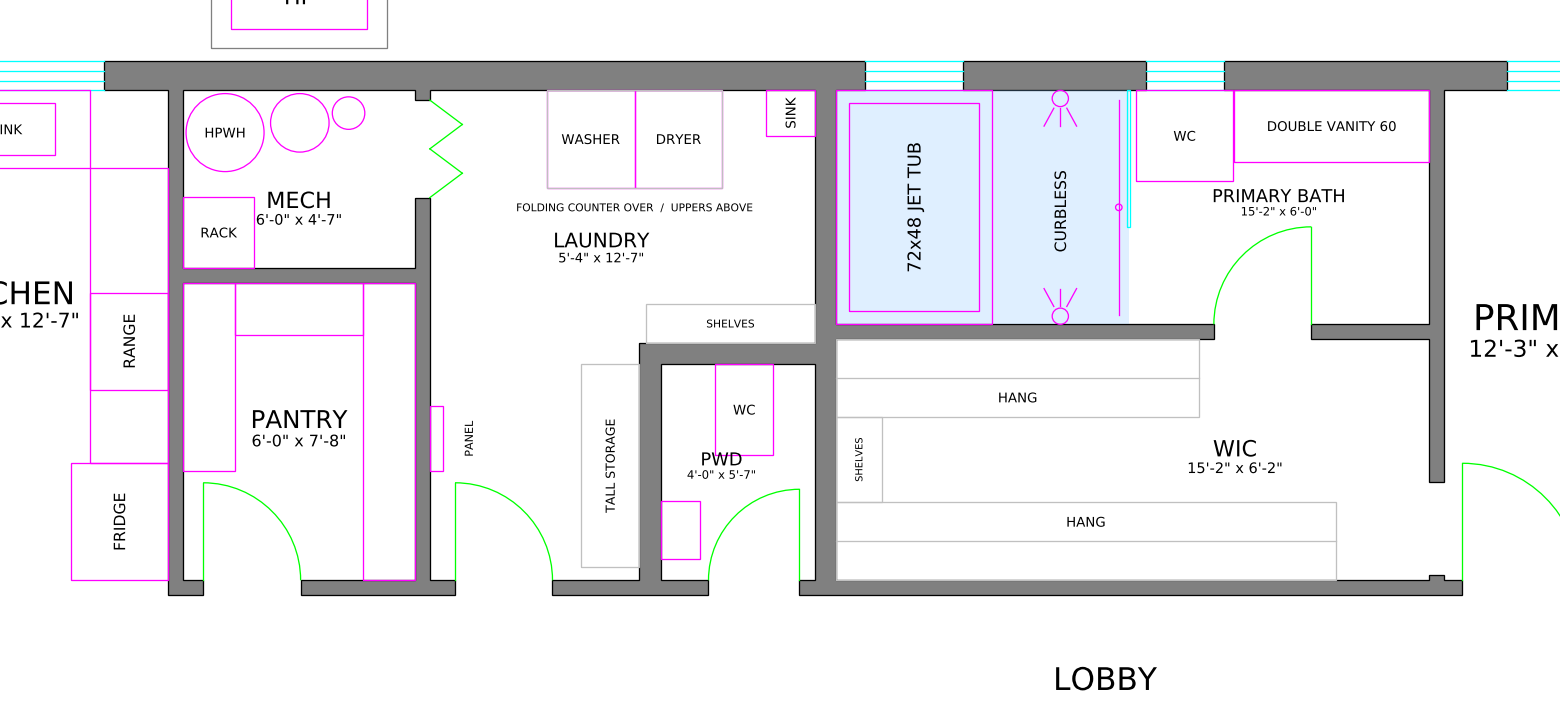
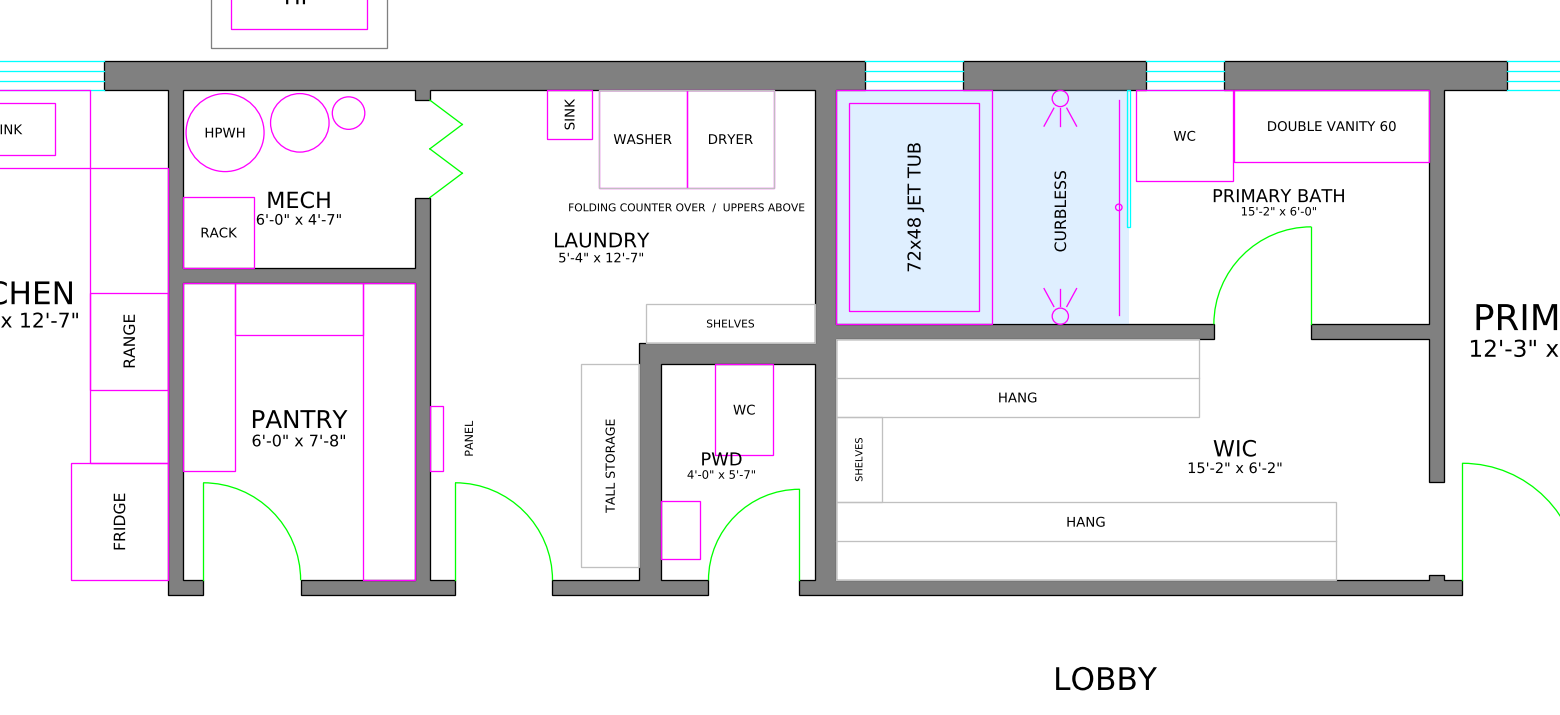
Laundry experiment: sink just past the mech closet's clear floor; washer/dryer shifted west

Changed region(s): [[0.3385, 0.1231, 0.5231, 0.2154], [0.3385, 0.2462, 0.5231, 0.3077]]

diff --git a/renders/experiments/laundry-back-wall/house.html b/renders/experiments/laundry-back-wall/house.html
@@ -41,7 +41,7 @@
 import * as THREE from 'three';
 import {OrbitControls} from 'three/addons/controls/OrbitControls.js';
 import {PointerLockControls} from 'three/addons/controls/PointerLockControls.js';
-const D = {"quads": {"exterior": [[444.1, 250.2, 444.1, 255.0, 0, 120.0], [519.1, 241.2, 453.1, 241.2, 0, 120.0], [453.1, 241.2, 444.1, 241.2, 0, 120.0], [444.1, 241.2, 444.1, 250.2, 0, 120.0], [444.1, 289.2, 438.0, 289.2, 0, 120.0], [444.1, 279.0, 444.1, 289.2, 0, 120.0], [424.0, 289.2, 418.0, 289.2, 0, 120.0], [365.1, 289.2, 356.1, 289.2, 0, 120.0], [356.1, 289.2, 356.1, 298.2, 0, 120.0], [356.1, 298.2, 356.1, 510.8, 0, 120.0], [380.0, 289.2, 365.1, 289.2, 0, 120.0], [356.1, 612.2, 356.1, 621.2, 0, 120.0], [356.1, 621.2, 365.1, 621.2, 0, 120.0], [365.1, 621.2, 397.0, 621.2, 0, 120.0], [356.1, 594.8, 356.1, 612.2, 0, 120.0], [517.0, 621.2, 592.0, 621.2, 0, 120.0], [652.0, 621.2, 886.25, 621.2, 0, 120.0], [916.25, 621.2, 972.5, 621.2, 0, 120.0], [996.5, 621.2, 1083.6, 621.2, 0, 120.0], [1211.0, 621.2, 1220.0, 621.2, 0, 120.0], [1220.0, 621.2, 1220.0, 612.2, 0, 120.0], [1220.0, 612.2, 1220.0, 450.7, 0, 120.0], [1191.6, 621.2, 1211.0, 621.2, 0, 120.0], [1220.0, 250.2, 1220.0, 241.2, 0, 120.0], [1220.0, 241.2, 1211.0, 241.2, 0, 120.0], [1211.0, 241.2, 1196.1, 241.2, 0, 120.0], [1220.0, 414.7, 1220.0, 250.2, 0, 120.0], [1100.1, 241.2, 1052.1, 241.2, 0, 120.0], [952.1, 241.2, 899.0, 241.2, 0, 120.0], [869.0, 241.2, 824.1, 241.2, 0, 120.0], [728.1, 241.2, 639.1, 241.2, 0, 120.0], [519.1, 241.2, 639.1, 241.2, 96.0, 120.0], [519.1, 241.2, 639.1, 241.2, 0, 30.0], [728.1, 241.2, 824.1, 241.2, 96.0, 120.0], [728.1, 241.2, 824.1, 241.2, 0, 30.0], [869.0, 241.2, 899.0, 241.2, 96.0, 120.0], [869.0, 241.2, 899.0, 241.2, 0, 30.0], [952.1, 241.2, 1052.1, 241.2, 96.0, 120.0], [952.1, 241.2, 1052.1, 241.2, 0, 30.0], [1100.1, 241.2, 1196.1, 241.2, 96.0, 120.0], [1100.1, 241.2, 1196.1, 241.2, 0, 30.0], [380.0, 289.2, 418.0, 289.2, 96.0, 120.0], [424.0, 289.2, 438.0, 289.2, 96.0, 120.0], [444.1, 255.0, 444.1, 279.0, 96.0, 120.0], [444.1, 255.0, 444.1, 279.0, 0, 30.0], [397.0, 621.2, 517.0, 621.2, 96.0, 120.0], [397.0, 621.2, 517.0, 621.2, 0, 30.0], [592.0, 621.2, 652.0, 621.2, 96.0, 120.0], [592.0, 621.2, 652.0, 621.2, 0, 30.0], [886.25, 621.2, 916.25, 621.2, 96.0, 120.0], [886.25, 621.2, 916.25, 621.2, 0, 30.0], [972.5, 621.2, 996.5, 621.2, 96.0, 120.0], [972.5, 621.2, 996.5, 621.2, 0, 30.0], [1083.6, 621.2, 1191.6, 621.2, 96.0, 120.0], [1083.6, 621.2, 1191.6, 621.2, 0, 30.0], [356.1, 510.8, 356.1, 594.8, 96.0, 120.0], [1220.0, 414.7, 1220.0, 450.7, 96.0, 120.0]], "wall": [[444.1, 255.0, 453.1, 255.0, 0, 120.0], [453.1, 255.0, 453.1, 250.2, 0, 120.0], [453.1, 250.2, 519.1, 250.2, 0, 120.0], [519.1, 250.2, 519.1, 241.2, 0, 120.0], [438.0, 289.2, 438.0, 298.2, 0, 120.0], [438.0, 298.2, 444.1, 298.2, 0, 120.0], [444.1, 298.2, 448.6, 298.2, 0, 120.0], [448.6, 298.2, 448.6, 406.2, 0, 120.0], [448.6, 406.2, 453.1, 406.2, 0, 120.0], [453.1, 406.2, 453.1, 298.2, 0, 120.0], [453.1, 298.2, 453.1, 289.2, 0, 120.0], [453.1, 289.2, 453.1, 279.0, 0, 120.0], [453.1, 279.0, 444.1, 279.0, 0, 120.0], [418.0, 289.2, 418.0, 298.2, 0, 120.0], [418.0, 298.2, 424.0, 298.2, 0, 120.0], [424.0, 298.2, 424.0, 289.2, 0, 120.0], [356.1, 510.8, 365.1, 510.8, 0, 120.0], [365.1, 510.8, 365.1, 298.2, 0, 120.0], [365.1, 298.2, 380.0, 298.2, 0, 120.0], [380.0, 298.2, 380.0, 289.2, 0, 120.0], [397.0, 621.2, 397.0, 612.2, 0, 120.0], [397.0, 612.2, 365.1, 612.2, 0, 120.0], [365.1, 612.2, 365.1, 594.8, 0, 120.0], [365.1, 594.8, 356.1, 594.8, 0, 120.0], [592.0, 621.2, 592.0, 612.2, 0, 120.0], [592.0, 612.2, 517.0, 612.2, 0, 120.0], [517.0, 612.2, 517.0, 621.2, 0, 120.0], [886.25, 621.2, 886.25, 612.2, 0, 120.0], [886.25, 612.2, 877.25, 612.2, 0, 120.0], [877.25, 612.2, 877.25, 540.2, 0, 120.0], [877.25, 540.2, 993.5, 540.2, 0, 120.0], [993.5, 540.2, 993.5, 535.7, 0, 120.0], [993.5, 535.7, 877.25, 535.7, 0, 120.0], [877.25, 535.7, 877.25, 461.45, 0, 120.0], [877.25, 461.45, 1059.75, 461.45, 0, 120.0], [1059.75, 461.45, 1059.75, 463.0, 0, 120.0], [1059.75, 463.0, 1064.25, 463.0, 0, 120.0], [1064.25, 463.0, 1064.25, 461.45, 0, 120.0], [1064.25, 461.45, 1070.0, 461.45, 0, 120.0], [1070.0, 461.45, 1070.0, 456.95, 0, 120.0], [1070.0, 456.95, 866.0, 456.95, 0, 120.0], [866.0, 456.95, 866.0, 461.45, 0, 120.0], [866.0, 461.45, 870.75, 461.45, 0, 120.0], [870.75, 461.45, 870.75, 527.95, 0, 120.0], [870.75, 527.95, 823.25, 527.95, 0, 120.0], [823.25, 527.95, 823.25, 461.45, 0, 120.0], [823.25, 461.45, 838.0, 461.45, 0, 120.0], [838.0, 461.45, 838.0, 456.95, 0, 120.0], [838.0, 456.95, 790.0, 456.95, 0, 120.0], [790.0, 456.95, 790.0, 461.45, 0, 120.0], [790.0, 461.45, 816.75, 461.45, 0, 120.0], [816.75, 461.45, 816.75, 534.45, 0, 120.0], [816.75, 534.45, 820.0, 534.45, 0, 120.0], [820.0, 534.45, 823.25, 534.45, 0, 120.0], [823.25, 534.45, 870.75, 534.45, 0, 120.0], [870.75, 534.45, 870.75, 612.2, 0, 120.0], [870.75, 612.2, 752.25, 612.2, 0, 120.0], [752.25, 612.2, 752.25, 609.2, 0, 120.0], [752.25, 609.2, 747.75, 609.2, 0, 120.0], [747.75, 609.2, 747.75, 612.2, 0, 120.0], [747.75, 612.2, 676.25, 612.2, 0, 120.0], [676.25, 612.2, 676.25, 557.45, 0, 120.0], [676.25, 557.45, 747.75, 557.45, 0, 120.0], [747.75, 557.45, 747.75, 579.2, 0, 120.0], [747.75, 579.2, 752.25, 579.2, 0, 120.0], [752.25, 579.2, 752.25, 461.45, 0, 120.0], [752.25, 461.45, 760.0, 461.45, 0, 120.0], [760.0, 461.45, 760.0, 456.95, 0, 120.0], [760.0, 456.95, 712.5, 456.95, 0, 120.0], [712.5, 456.95, 712.5, 461.45, 0, 120.0], [712.5, 461.45, 747.75, 461.45, 0, 120.0], [747.75, 461.45, 747.75, 552.95, 0, 120.0], [747.75, 552.95, 676.25, 552.95, 0, 120.0], [676.25, 552.95, 676.25, 461.45, 0, 120.0], [676.25, 461.45, 682.5, 461.45, 0, 120.0], [682.5, 461.45, 682.5, 456.95, 0, 120.0], [682.5, 456.95, 671.75, 456.95, 0, 120.0], [671.75, 456.95, 671.75, 457.0, 0, 120.0], [671.75, 457.0, 671.75, 461.45, 0, 120.0], [671.75, 461.45, 671.75, 612.2, 0, 120.0], [671.75, 612.2, 652.0, 612.2, 0, 120.0], [652.0, 612.2, 652.0, 621.2, 0, 120.0], [972.5, 621.2, 972.5, 612.2, 0, 120.0], [972.5, 612.2, 916.25, 612.2, 0, 120.0], [916.25, 612.2, 916.25, 621.2, 0, 120.0], [1083.6, 621.2, 1083.6, 612.2, 0, 120.0], [1083.6, 612.2, 1064.25, 612.2, 0, 120.0], [1064.25, 612.2, 1064.25, 491.7, 0, 120.0], [1064.25, 491.7, 1059.75, 491.7, 0, 120.0], [1059.75, 491.7, 1059.75, 535.7, 0, 120.0], [1059.75, 535.7, 1023.5, 535.7, 0, 120.0], [1023.5, 535.7, 1023.5, 540.2, 0, 120.0], [1023.5, 540.2, 1059.75, 540.2, 0, 120.0], [1059.75, 540.2, 1059.75, 612.2, 0, 120.0], [1059.75, 612.2, 996.5, 612.2, 0, 120.0], [996.5, 612.2, 996.5, 621.2, 0, 120.0], [1220.0, 450.7, 1211.0, 450.7, 0, 120.0], [1211.0, 450.7, 1211.0, 456.95, 0, 120.0], [1211.0, 456.95, 1106.0, 456.95, 0, 120.0], [1106.0, 456.95, 1106.0, 461.45, 0, 120.0], [1106.0, 461.45, 1211.0, 461.45, 0, 120.0], [1211.0, 461.45, 1211.0, 612.2, 0, 120.0], [1211.0, 612.2, 1191.6, 612.2, 0, 120.0], [1191.6, 612.2, 1191.6, 621.2, 0, 120.0], [1196.1, 241.2, 1196.1, 250.2, 0, 120.0], [1196.1, 250.2, 1211.0, 250.2, 0, 120.0], [1211.0, 250.2, 1211.0, 400.95, 0, 120.0], [1211.0, 400.95, 1126.0, 400.95, 0, 120.0], [1126.0, 400.95, 1126.0, 405.45, 0, 120.0], [1126.0, 405.45, 1211.0, 405.45, 0, 120.0], [1211.0, 405.45, 1211.0, 414.7, 0, 120.0], [1211.0, 414.7, 1220.0, 414.7, 0, 120.0], [1052.1, 241.2, 1052.1, 250.2, 0, 120.0], [1052.1, 250.2, 1079.75, 250.2, 0, 120.0], [1079.75, 250.2, 1079.75, 400.95, 0, 120.0], [1079.75, 400.95, 1020.0, 400.95, 0, 120.0], [1020.0, 400.95, 1020.0, 405.45, 0, 120.0], [1020.0, 405.45, 1079.75, 405.45, 0, 120.0], [1079.75, 405.45, 1084.25, 405.45, 0, 120.0], [1084.25, 405.45, 1090.0, 405.45, 0, 120.0], [1090.0, 405.45, 1090.0, 400.95, 0, 120.0], [1090.0, 400.95, 1084.25, 400.95, 0, 120.0], [1084.25, 400.95, 1084.25, 250.2, 0, 120.0], [1084.25, 250.2, 1100.1, 250.2, 0, 120.0], [1100.1, 250.2, 1100.1, 241.2, 0, 120.0], [899.0, 241.2, 899.0, 250.2, 0, 120.0], [899.0, 250.2, 920.75, 250.2, 0, 120.0], [920.75, 250.2, 920.75, 400.95, 0, 120.0], [920.75, 400.95, 915.5, 400.95, 0, 120.0], [915.5, 400.95, 915.5, 405.45, 0, 120.0], [915.5, 405.45, 920.75, 405.45, 0, 120.0], [920.75, 405.45, 925.25, 405.45, 0, 120.0], [925.25, 405.45, 984.0, 405.45, 0, 120.0], [984.0, 405.45, 984.0, 400.95, 0, 120.0], [984.0, 400.95, 925.25, 400.95, 0, 120.0], [925.25, 400.95, 925.25, 250.2, 0, 120.0], [925.25, 250.2, 952.1, 250.2, 0, 120.0], [952.1, 250.2, 952.1, 241.2, 0, 120.0], [824.1, 241.2, 824.1, 250.2, 0, 120.0], [824.1, 250.2, 840.75, 250.2, 0, 120.0], [840.75, 250.2, 840.75, 400.95, 0, 120.0], [840.75, 400.95, 835.5, 400.95, 0, 120.0], [835.5, 400.95, 835.5, 405.45, 0, 120.0], [835.5, 405.45, 840.75, 405.45, 0, 120.0], [840.75, 405.45, 847.25, 405.45, 0, 120.0], [847.25, 405.45, 885.5, 405.45, 0, 120.0], [885.5, 405.45, 885.5, 400.95, 0, 120.0], [885.5, 400.95, 847.25, 400.95, 0, 120.0], [847.25, 400.95, 847.25, 250.2, 0, 120.0], [847.25, 250.2, 869.0, 250.2, 0, 120.0], [869.0, 250.2, 869.0, 241.2, 0, 120.0], [639.1, 241.2, 639.1, 250.2, 0, 120.0], [639.1, 250.2, 707.75, 250.2, 0, 120.0], [707.75, 250.2, 707.75, 400.95, 0, 120.0], [707.75, 400.95, 707.75, 405.45, 0, 120.0], [707.75, 405.45, 712.25, 405.45, 0, 120.0], [712.25, 405.45, 799.5, 405.45, 0, 120.0], [799.5, 405.45, 799.5, 400.95, 0, 120.0], [799.5, 400.95, 712.25, 400.95, 0, 120.0], [712.25, 400.95, 712.25, 250.2, 0, 120.0], [712.25, 250.2, 728.1, 250.2, 0, 120.0], [728.1, 250.2, 728.1, 241.2, 0, 120.0], [519.1, 250.2, 639.1, 250.2, 96.0, 120.0], [519.1, 250.2, 639.1, 250.2, 0, 30.0], [728.1, 250.2, 824.1, 250.2, 96.0, 120.0], [728.1, 250.2, 824.1, 250.2, 0, 30.0], [869.0, 250.2, 899.0, 250.2, 96.0, 120.0], [869.0, 250.2, 899.0, 250.2, 0, 30.0], [952.1, 250.2, 1052.1, 250.2, 96.0, 120.0], [952.1, 250.2, 1052.1, 250.2, 0, 30.0], [1100.1, 250.2, 1196.1, 250.2, 96.0, 120.0], [1100.1, 250.2, 1196.1, 250.2, 0, 30.0], [380.0, 298.2, 418.0, 298.2, 96.0, 120.0], [424.0, 298.2, 438.0, 298.2, 96.0, 120.0], [453.1, 255.0, 453.1, 279.0, 96.0, 120.0], [453.1, 255.0, 453.1, 279.0, 0, 30.0], [397.0, 612.2, 517.0, 612.2, 96.0, 120.0], [397.0, 612.2, 517.0, 612.2, 0, 30.0], [592.0, 612.2, 652.0, 612.2, 96.0, 120.0], [592.0, 612.2, 652.0, 612.2, 0, 30.0], [886.25, 612.2, 916.25, 612.2, 96.0, 120.0], [886.25, 612.2, 916.25, 612.2, 0, 30.0], [972.5, 612.2, 996.5, 612.2, 96.0, 120.0], [972.5, 612.2, 996.5, 612.2, 0, 30.0], [1083.6, 612.2, 1191.6, 612.2, 96.0, 120.0], [1083.6, 612.2, 1191.6, 612.2, 0, 30.0], [365.1, 510.8, 365.1, 594.8, 96.0, 120.0], [1211.0, 414.7, 1211.0, 450.7, 96.0, 120.0], [799.5, 400.95, 835.5, 400.95, 96.0, 120.0], [799.5, 405.45, 835.5, 405.45, 96.0, 120.0], [885.5, 400.95, 915.5, 400.95, 96.0, 120.0], [885.5, 405.45, 915.5, 405.45, 96.0, 120.0], [984.0, 400.95, 1020.0, 400.95, 96.0, 120.0], [984.0, 405.45, 1020.0, 405.45, 96.0, 120.0], [1090.0, 400.95, 1126.0, 400.95, 96.0, 120.0], [1090.0, 405.45, 1126.0, 405.45, 96.0, 120.0], [682.5, 456.95, 712.5, 456.95, 96.0, 120.0], [682.5, 461.45, 712.5, 461.45, 96.0, 120.0], [760.0, 456.95, 790.0, 456.95, 96.0, 120.0], [760.0, 461.45, 790.0, 461.45, 96.0, 120.0], [838.0, 456.95, 866.0, 456.95, 96.0, 120.0], [838.0, 461.45, 866.0, 461.45, 96.0, 120.0], [1070.0, 456.95, 1106.0, 456.95, 96.0, 120.0], [1070.0, 461.45, 1106.0, 461.45, 96.0, 120.0], [747.75, 579.2, 747.75, 609.2, 96.0, 120.0], [752.25, 579.2, 752.25, 609.2, 96.0, 120.0], [993.5, 535.7, 1023.5, 535.7, 96.0, 120.0], [993.5, 540.2, 1023.5, 540.2, 96.0, 120.0], [1059.75, 463.0, 1059.75, 491.7, 96.0, 120.0], [1064.25, 463.0, 1064.25, 491.7, 96.0, 120.0]], "glass": [[519.1, 245.7, 639.1, 245.7, 30.0, 96.0], [728.1, 245.7, 824.1, 245.7, 30.0, 96.0], [869.0, 245.7, 899.0, 245.7, 30.0, 96.0], [952.1, 245.7, 1052.1, 245.7, 30.0, 96.0], [1100.1, 245.7, 1196.1, 245.7, 30.0, 96.0], [424.0, 293.7, 438.0, 293.7, 0.0, 96.0], [448.6, 255.0, 448.6, 279.0, 30.0, 96.0], [397.0, 616.7, 517.0, 616.7, 30.0, 96.0], [592.0, 616.7, 652.0, 616.7, 30.0, 96.0], [886.25, 616.7, 916.25, 616.7, 30.0, 96.0], [972.5, 616.7, 996.5, 616.7, 30.0, 96.0], [1083.6, 616.7, 1191.6, 616.7, 30.0, 96.0], [360.6, 510.8, 360.6, 594.8, 0, 96.0]], "fence": [[685.0, 625.2, 739.0, 625.2, 0, 30], [739.0, 625.2, 739.0, 657.2, 0, 30], [739.0, 657.2, 685.0, 657.2, 0, 30], [685.0, 657.2, 685.0, 625.2, 0, 30], [0.0, 484.3, 160.0, 484.3, 0, 72.0], [208.0, 484.3, 356.1, 484.3, 0, 72.0], [0.0, 386.0, 60.0, 386.0, 0, 72.0], [60.0, 386.0, 60.0, 258.0, 0, 72.0], [1220.0, 241.2, 1240.0, 241.2, 0, 72.0], [1288.0, 241.2, 1356.0, 241.2, 0, 72.0]]}, "boxes": {"roof": [[134.1, 235.2, 356.1, 487.3, 108, 112]], "post": [[356.1, 241.2, 362.1, 247.2, 0, 120.0], [474.0, 155.5, 492.0, 156.0, 10, 16], [140.1, 241.2, 146.1, 247.2, 0, 108], [140.1, 475.3, 146.1, 481.3, 0, 108]], "concrete": [[392.1, 156.0, 504.0, 164.0, 0, 24.0], [496.0, 164.0, 504.0, 241.2, 0, 24.0]], "fixture": [[840.0, 499.95000000000005, 858.0, 527.95, 0, 16], [823.25, 468.0, 835.25, 486.0, 0, 36], [788.25, 582.2, 815.25, 612.2, 0, 38], [815.25, 582.2, 842.25, 612.2, 0, 38], [855.75, 598.2, 870.75, 612.2, 0, 36], [752.25, 495.0, 756.25, 515.0, 0, 36], [546.9, 461.45, 598.0, 612.2, 0, 36], [574.0, 564.2, 598.0, 588.2, 0, 36], [574.0, 540.2, 598.0, 564.2, 0, 36], [546.9, 597.2, 570.9, 612.2, 0, 36], [598.0, 588.2, 647.75, 612.2, 0, 36], [647.75, 497.45, 671.75, 588.2, 0, 36], [647.75, 520.0, 671.75, 550.0, 0, 36], [641.75, 461.45, 671.75, 497.45, 0, 70], [607.0, 592.2, 637.0, 608.2, 0, 36], [847.25, 250.2, 919.25, 282.2, 0, 20], [851.25, 254.2, 915.25, 278.2, 0, 20], [847.25, 284.2, 875.25, 314.2, 0, 16], [847.25, 323.2, 868.25, 371.2, 0, 34], [676.25, 557.45, 698.25, 579.45, 0, 72], [877.25, 540.2, 925.25, 612.2, 0, 20], [881.25, 544.2, 921.25, 608.2, 0, 20], [969.5, 584.2, 999.5, 612.2, 0, 16], [999.75, 590.2, 1059.75, 612.2, 0, 34], [691.0, 631.2, 733.0, 651.2, 0, 36]], "furniture": [[788.25, 582.2, 842.25, 612.2, 0, 38], [798.75, 465.45, 816.75, 527.95, 0, 30], [436.0, 481.0, 476.0, 565.0, 0, 30], [453.1, 300.0, 456.1, 360.0, 0, 44], [636.5, 305.0, 651.5, 396.0, 0, 30], [533.0, 323.0, 579.0, 369.0, 0, 18], [365.1, 333.0, 383.1, 366.0, 0, 18], [712.25, 283.575, 715.25, 343.575, 0, 44], [715.25, 283.575, 795.25, 343.575, 0, 24], [717.25, 286.575, 731.25, 311.575, 0, 30], [717.25, 315.575, 731.25, 340.575, 0, 30], [712.25, 265.575, 728.25, 283.575, 0, 24], [712.25, 343.575, 728.25, 361.575, 0, 24], [925.25, 283.575, 928.25, 343.575, 0, 44], [928.25, 283.575, 1008.25, 343.575, 0, 24], [930.25, 286.575, 944.25, 311.575, 0, 30], [930.25, 315.575, 944.25, 340.575, 0, 30], [925.25, 265.575, 941.25, 283.575, 0, 24], [925.25, 343.575, 941.25, 361.575, 0, 24], [1208.0, 283.575, 1211.0, 343.575, 0, 44], [1128.0, 283.575, 1208.0, 343.575, 0, 24], [1192.0, 286.575, 1206.0, 311.575, 0, 30], [1192.0, 315.575, 1206.0, 340.575, 0, 30], [1195.0, 265.575, 1211.0, 283.575, 0, 24], [1195.0, 343.575, 1211.0, 361.575, 0, 24], [1208.0, 498.82500000000005, 1211.0, 574.825, 0, 44], [1128.0, 498.82500000000005, 1208.0, 574.825, 0, 24], [1192.0, 501.82500000000005, 1206.0, 534.825, 0, 30], [1192.0, 538.825, 1206.0, 571.825, 0, 30], [1195.0, 480.82500000000005, 1211.0, 498.82500000000005, 0, 24], [1195.0, 574.825, 1211.0, 592.825, 0, 24], [264.1, 614.0, 304.1, 686.0, 0, 30]], "closet": [[818.75, 534.45, 870.75, 546.45, 0, 84], [877.25, 461.45, 1031.0, 485.45, 0, 84], [877.25, 511.70000000000005, 989.0, 535.7, 0, 84], [877.25, 485.45, 891.25, 511.70000000000005, 0, 84], [365.1, 300.0, 383.1, 333.0, 0, 96], [712.25, 376.95, 794.0, 400.95, 0, 96], [925.25, 376.95, 974.0, 400.95, 0, 96], [1030.1, 376.95, 1079.75, 400.95, 0, 96], [1130.0, 376.95, 1211.0, 400.95, 0, 96], [847.25, 376.95, 877.25, 400.95, 0, 84], [676.25, 495.0, 692.25, 552.95, 0, 60.0], [731.75, 461.45, 747.75, 552.95, 0, 60.0], [692.25, 536.95, 731.75, 552.95, 0, 60.0]], "chrome": [[847.25, 265.59999999999997, 856.25, 266.8, 81.5, 82.7], [945.65, 540.2, 946.85, 549.2, 81.5, 82.7], [945.65, 603.2, 946.85, 612.2, 81.5, 82.7]]}, "cyls": {"furniture": [[538.9, 476.7, 7.5, 0, 30.0], [538.9, 512.9, 7.5, 0, 30.0], [538.9, 544.5, 7.5, 0, 30.0], [428.0, 495.0, 7.0, 0, 18.0], [484.0, 495.0, 7.0, 0, 18.0], [428.0, 523.0, 7.0, 0, 18.0], [484.0, 523.0, 7.0, 0, 18.0], [428.0, 551.0, 7.0, 0, 18.0], [484.0, 551.0, 7.0, 0, 18.0], [456.0, 472.0, 7.0, 0, 18.0], [456.0, 574.0, 7.0, 0, 18.0]], "fixture": [[689.25, 599.2, 12.0, 0, 62.0], [712.25, 602.2, 9.0, 0, 40.0], [727.25, 605.2, 5.0, 0, 48.0]], "chrome": [[856.25, 266.2, 4.0, 80.0, 81.5], [946.25, 549.2, 4.0, 80.0, 81.5], [946.25, 603.2, 4.0, 80.0, 81.5]]}, "polys": {"ground": [[[[0, -160.0], [1356.0, -160.0], [1356.0, 777.25], [0, 777.25]], -1.0, 0.0]], "slab": [[[[356.1, 289.2], [444.1, 289.2], [444.1, 241.2], [1220.0, 241.2], [1220.0, 621.2], [356.1, 621.2]], 0.0, 4.0]], "concrete": [[[[140.1, 241.2], [356.1, 241.2], [356.1, 481.3], [140.1, 481.3]], 0.0, 2.0], [[[150.0, -160.0], [290.0, -160.0], [290.0, 0.0], [290.45902777777775, 27.64722222222222], [291.8361111111111, 53.92222222222222], [294.13125, 78.825], [297.3444444444445, 102.35555555555555], [301.4756944444444, 124.51388888888887], [306.525, 145.3], [312.49236111111117, 164.7138888888889], [319.3777777777778, 182.75555555555553], [327.18125, 199.42499999999998], [335.9027777777778, 214.72222222222223], [345.5423611111111, 228.64722222222218], [356.1, 241.2], [140.1, 241.2], [150.0, 0.0]], 0.0, 1.0], [[[356.1, 217.2], [444.1, 217.2], [444.1, 289.2], [356.1, 289.2]], 0.0, 3.0], [[[6.0, 262.0], [54.0, 262.0], [54.0, 382.0], [6.0, 382.0]], 0.0, 3.0]], "pavers": [[[[356.1, 156.0], [504.0, 156.0], [504.0, 241.2], [356.1, 241.2]], 0.0, 2.0], [[[6.0, 485.3], [356.1, 485.3], [356.1, 545.3], [6.0, 545.3]], 0.0, 2.0], [[[212.10000000000002, 485.3], [356.1, 485.3], [356.1, 735.25], [212.10000000000002, 735.25]], 0.0, 2.0]], "furniture": [[[[505.0, 267.0], [635.0, 267.0], [635.0, 396.0], [597.0, 396.0], [597.0, 305.0], [505.0, 305.0]], 0.0, 30.0]], "lawn": [[[[18.0, 557.3], [200.10000000000002, 557.3], [200.10000000000002, 723.25], [18.0, 723.25]], 0.0, 1.0]], "planter": [[[[6.0, 735.25], [356.1, 735.25], [356.1, 771.25], [6.0, 771.25]], 0.0, 24.0]], "ceiling": [[[[356.1, 289.2], [444.1, 289.2], [444.1, 241.2], [1220.0, 241.2], [1220.0, 621.2], [356.1, 621.2]], 120.0, 121.0]]}, "tris": {}, "mat": {}, "labels": [["FOYER", 418.0, 376.2], ["LOUNGE", 668.0, 305.6], ["DINING", 456.0, 597.6], ["KITCHEN", 622.0, 549.9], ["BEDROOM 2", 776.5, 277.6], ["BEDROOM 3", 1002.5, 277.6], ["BEDROOM 4", 1147.625, 277.6], ["PANTRY", 712.0, 511.05000000000007], ["MECH", 712.0, 578.5], ["PWD", 842.0, 498.8], ["LAUNDRY", 805.0, 566.15], ["WIC", 1000.0, 502.07500000000005], ["PRIMARY", 1097.625, 542.4250000000001], ["LOBBY", 960.0, 431.2], ["PORCH", 400.1, 265.2], ["C. BATH", 896.5, 340.34999999999997], ["PRIMARY BATH", 1013.5, 579.8], ["CARPORT", 248.10000000000002, 361.25, 11.0]], "center": [788.05, 431.20000000000005], "entry": [396.1, 311.2], "roof": [[332.1, 217.2], [1244.0, 217.2], [1244.0, 645.2], [332.1, 645.2]], "roof_z": 134.0};
+const D = {"quads": {"exterior": [[444.1, 250.2, 444.1, 255.0, 0, 120.0], [519.1, 241.2, 453.1, 241.2, 0, 120.0], [453.1, 241.2, 444.1, 241.2, 0, 120.0], [444.1, 241.2, 444.1, 250.2, 0, 120.0], [444.1, 289.2, 438.0, 289.2, 0, 120.0], [444.1, 279.0, 444.1, 289.2, 0, 120.0], [424.0, 289.2, 418.0, 289.2, 0, 120.0], [365.1, 289.2, 356.1, 289.2, 0, 120.0], [356.1, 289.2, 356.1, 298.2, 0, 120.0], [356.1, 298.2, 356.1, 510.8, 0, 120.0], [380.0, 289.2, 365.1, 289.2, 0, 120.0], [356.1, 612.2, 356.1, 621.2, 0, 120.0], [356.1, 621.2, 365.1, 621.2, 0, 120.0], [365.1, 621.2, 397.0, 621.2, 0, 120.0], [356.1, 594.8, 356.1, 612.2, 0, 120.0], [517.0, 621.2, 592.0, 621.2, 0, 120.0], [652.0, 621.2, 886.25, 621.2, 0, 120.0], [916.25, 621.2, 972.5, 621.2, 0, 120.0], [996.5, 621.2, 1083.6, 621.2, 0, 120.0], [1211.0, 621.2, 1220.0, 621.2, 0, 120.0], [1220.0, 621.2, 1220.0, 612.2, 0, 120.0], [1220.0, 612.2, 1220.0, 450.7, 0, 120.0], [1191.6, 621.2, 1211.0, 621.2, 0, 120.0], [1220.0, 250.2, 1220.0, 241.2, 0, 120.0], [1220.0, 241.2, 1211.0, 241.2, 0, 120.0], [1211.0, 241.2, 1196.1, 241.2, 0, 120.0], [1220.0, 414.7, 1220.0, 250.2, 0, 120.0], [1100.1, 241.2, 1052.1, 241.2, 0, 120.0], [952.1, 241.2, 899.0, 241.2, 0, 120.0], [869.0, 241.2, 824.1, 241.2, 0, 120.0], [728.1, 241.2, 639.1, 241.2, 0, 120.0], [519.1, 241.2, 639.1, 241.2, 96.0, 120.0], [519.1, 241.2, 639.1, 241.2, 0, 30.0], [728.1, 241.2, 824.1, 241.2, 96.0, 120.0], [728.1, 241.2, 824.1, 241.2, 0, 30.0], [869.0, 241.2, 899.0, 241.2, 96.0, 120.0], [869.0, 241.2, 899.0, 241.2, 0, 30.0], [952.1, 241.2, 1052.1, 241.2, 96.0, 120.0], [952.1, 241.2, 1052.1, 241.2, 0, 30.0], [1100.1, 241.2, 1196.1, 241.2, 96.0, 120.0], [1100.1, 241.2, 1196.1, 241.2, 0, 30.0], [380.0, 289.2, 418.0, 289.2, 96.0, 120.0], [424.0, 289.2, 438.0, 289.2, 96.0, 120.0], [444.1, 255.0, 444.1, 279.0, 96.0, 120.0], [444.1, 255.0, 444.1, 279.0, 0, 30.0], [397.0, 621.2, 517.0, 621.2, 96.0, 120.0], [397.0, 621.2, 517.0, 621.2, 0, 30.0], [592.0, 621.2, 652.0, 621.2, 96.0, 120.0], [592.0, 621.2, 652.0, 621.2, 0, 30.0], [886.25, 621.2, 916.25, 621.2, 96.0, 120.0], [886.25, 621.2, 916.25, 621.2, 0, 30.0], [972.5, 621.2, 996.5, 621.2, 96.0, 120.0], [972.5, 621.2, 996.5, 621.2, 0, 30.0], [1083.6, 621.2, 1191.6, 621.2, 96.0, 120.0], [1083.6, 621.2, 1191.6, 621.2, 0, 30.0], [356.1, 510.8, 356.1, 594.8, 96.0, 120.0], [1220.0, 414.7, 1220.0, 450.7, 96.0, 120.0]], "wall": [[444.1, 255.0, 453.1, 255.0, 0, 120.0], [453.1, 255.0, 453.1, 250.2, 0, 120.0], [453.1, 250.2, 519.1, 250.2, 0, 120.0], [519.1, 250.2, 519.1, 241.2, 0, 120.0], [438.0, 289.2, 438.0, 298.2, 0, 120.0], [438.0, 298.2, 444.1, 298.2, 0, 120.0], [444.1, 298.2, 448.6, 298.2, 0, 120.0], [448.6, 298.2, 448.6, 406.2, 0, 120.0], [448.6, 406.2, 453.1, 406.2, 0, 120.0], [453.1, 406.2, 453.1, 298.2, 0, 120.0], [453.1, 298.2, 453.1, 289.2, 0, 120.0], [453.1, 289.2, 453.1, 279.0, 0, 120.0], [453.1, 279.0, 444.1, 279.0, 0, 120.0], [418.0, 289.2, 418.0, 298.2, 0, 120.0], [418.0, 298.2, 424.0, 298.2, 0, 120.0], [424.0, 298.2, 424.0, 289.2, 0, 120.0], [356.1, 510.8, 365.1, 510.8, 0, 120.0], [365.1, 510.8, 365.1, 298.2, 0, 120.0], [365.1, 298.2, 380.0, 298.2, 0, 120.0], [380.0, 298.2, 380.0, 289.2, 0, 120.0], [397.0, 621.2, 397.0, 612.2, 0, 120.0], [397.0, 612.2, 365.1, 612.2, 0, 120.0], [365.1, 612.2, 365.1, 594.8, 0, 120.0], [365.1, 594.8, 356.1, 594.8, 0, 120.0], [592.0, 621.2, 592.0, 612.2, 0, 120.0], [592.0, 612.2, 517.0, 612.2, 0, 120.0], [517.0, 612.2, 517.0, 621.2, 0, 120.0], [886.25, 621.2, 886.25, 612.2, 0, 120.0], [886.25, 612.2, 877.25, 612.2, 0, 120.0], [877.25, 612.2, 877.25, 540.2, 0, 120.0], [877.25, 540.2, 993.5, 540.2, 0, 120.0], [993.5, 540.2, 993.5, 535.7, 0, 120.0], [993.5, 535.7, 877.25, 535.7, 0, 120.0], [877.25, 535.7, 877.25, 461.45, 0, 120.0], [877.25, 461.45, 1059.75, 461.45, 0, 120.0], [1059.75, 461.45, 1059.75, 463.0, 0, 120.0], [1059.75, 463.0, 1064.25, 463.0, 0, 120.0], [1064.25, 463.0, 1064.25, 461.45, 0, 120.0], [1064.25, 461.45, 1070.0, 461.45, 0, 120.0], [1070.0, 461.45, 1070.0, 456.95, 0, 120.0], [1070.0, 456.95, 866.0, 456.95, 0, 120.0], [866.0, 456.95, 866.0, 461.45, 0, 120.0], [866.0, 461.45, 870.75, 461.45, 0, 120.0], [870.75, 461.45, 870.75, 527.95, 0, 120.0], [870.75, 527.95, 823.25, 527.95, 0, 120.0], [823.25, 527.95, 823.25, 461.45, 0, 120.0], [823.25, 461.45, 838.0, 461.45, 0, 120.0], [838.0, 461.45, 838.0, 456.95, 0, 120.0], [838.0, 456.95, 790.0, 456.95, 0, 120.0], [790.0, 456.95, 790.0, 461.45, 0, 120.0], [790.0, 461.45, 816.75, 461.45, 0, 120.0], [816.75, 461.45, 816.75, 534.45, 0, 120.0], [816.75, 534.45, 820.0, 534.45, 0, 120.0], [820.0, 534.45, 823.25, 534.45, 0, 120.0], [823.25, 534.45, 870.75, 534.45, 0, 120.0], [870.75, 534.45, 870.75, 612.2, 0, 120.0], [870.75, 612.2, 752.25, 612.2, 0, 120.0], [752.25, 612.2, 752.25, 609.2, 0, 120.0], [752.25, 609.2, 747.75, 609.2, 0, 120.0], [747.75, 609.2, 747.75, 612.2, 0, 120.0], [747.75, 612.2, 676.25, 612.2, 0, 120.0], [676.25, 612.2, 676.25, 557.45, 0, 120.0], [676.25, 557.45, 747.75, 557.45, 0, 120.0], [747.75, 557.45, 747.75, 579.2, 0, 120.0], [747.75, 579.2, 752.25, 579.2, 0, 120.0], [752.25, 579.2, 752.25, 461.45, 0, 120.0], [752.25, 461.45, 760.0, 461.45, 0, 120.0], [760.0, 461.45, 760.0, 456.95, 0, 120.0], [760.0, 456.95, 712.5, 456.95, 0, 120.0], [712.5, 456.95, 712.5, 461.45, 0, 120.0], [712.5, 461.45, 747.75, 461.45, 0, 120.0], [747.75, 461.45, 747.75, 552.95, 0, 120.0], [747.75, 552.95, 676.25, 552.95, 0, 120.0], [676.25, 552.95, 676.25, 461.45, 0, 120.0], [676.25, 461.45, 682.5, 461.45, 0, 120.0], [682.5, 461.45, 682.5, 456.95, 0, 120.0], [682.5, 456.95, 671.75, 456.95, 0, 120.0], [671.75, 456.95, 671.75, 457.0, 0, 120.0], [671.75, 457.0, 671.75, 461.45, 0, 120.0], [671.75, 461.45, 671.75, 612.2, 0, 120.0], [671.75, 612.2, 652.0, 612.2, 0, 120.0], [652.0, 612.2, 652.0, 621.2, 0, 120.0], [972.5, 621.2, 972.5, 612.2, 0, 120.0], [972.5, 612.2, 916.25, 612.2, 0, 120.0], [916.25, 612.2, 916.25, 621.2, 0, 120.0], [1083.6, 621.2, 1083.6, 612.2, 0, 120.0], [1083.6, 612.2, 1064.25, 612.2, 0, 120.0], [1064.25, 612.2, 1064.25, 491.7, 0, 120.0], [1064.25, 491.7, 1059.75, 491.7, 0, 120.0], [1059.75, 491.7, 1059.75, 535.7, 0, 120.0], [1059.75, 535.7, 1023.5, 535.7, 0, 120.0], [1023.5, 535.7, 1023.5, 540.2, 0, 120.0], [1023.5, 540.2, 1059.75, 540.2, 0, 120.0], [1059.75, 540.2, 1059.75, 612.2, 0, 120.0], [1059.75, 612.2, 996.5, 612.2, 0, 120.0], [996.5, 612.2, 996.5, 621.2, 0, 120.0], [1220.0, 450.7, 1211.0, 450.7, 0, 120.0], [1211.0, 450.7, 1211.0, 456.95, 0, 120.0], [1211.0, 456.95, 1106.0, 456.95, 0, 120.0], [1106.0, 456.95, 1106.0, 461.45, 0, 120.0], [1106.0, 461.45, 1211.0, 461.45, 0, 120.0], [1211.0, 461.45, 1211.0, 612.2, 0, 120.0], [1211.0, 612.2, 1191.6, 612.2, 0, 120.0], [1191.6, 612.2, 1191.6, 621.2, 0, 120.0], [1196.1, 241.2, 1196.1, 250.2, 0, 120.0], [1196.1, 250.2, 1211.0, 250.2, 0, 120.0], [1211.0, 250.2, 1211.0, 400.95, 0, 120.0], [1211.0, 400.95, 1126.0, 400.95, 0, 120.0], [1126.0, 400.95, 1126.0, 405.45, 0, 120.0], [1126.0, 405.45, 1211.0, 405.45, 0, 120.0], [1211.0, 405.45, 1211.0, 414.7, 0, 120.0], [1211.0, 414.7, 1220.0, 414.7, 0, 120.0], [1052.1, 241.2, 1052.1, 250.2, 0, 120.0], [1052.1, 250.2, 1079.75, 250.2, 0, 120.0], [1079.75, 250.2, 1079.75, 400.95, 0, 120.0], [1079.75, 400.95, 1020.0, 400.95, 0, 120.0], [1020.0, 400.95, 1020.0, 405.45, 0, 120.0], [1020.0, 405.45, 1079.75, 405.45, 0, 120.0], [1079.75, 405.45, 1084.25, 405.45, 0, 120.0], [1084.25, 405.45, 1090.0, 405.45, 0, 120.0], [1090.0, 405.45, 1090.0, 400.95, 0, 120.0], [1090.0, 400.95, 1084.25, 400.95, 0, 120.0], [1084.25, 400.95, 1084.25, 250.2, 0, 120.0], [1084.25, 250.2, 1100.1, 250.2, 0, 120.0], [1100.1, 250.2, 1100.1, 241.2, 0, 120.0], [899.0, 241.2, 899.0, 250.2, 0, 120.0], [899.0, 250.2, 920.75, 250.2, 0, 120.0], [920.75, 250.2, 920.75, 400.95, 0, 120.0], [920.75, 400.95, 915.5, 400.95, 0, 120.0], [915.5, 400.95, 915.5, 405.45, 0, 120.0], [915.5, 405.45, 920.75, 405.45, 0, 120.0], [920.75, 405.45, 925.25, 405.45, 0, 120.0], [925.25, 405.45, 984.0, 405.45, 0, 120.0], [984.0, 405.45, 984.0, 400.95, 0, 120.0], [984.0, 400.95, 925.25, 400.95, 0, 120.0], [925.25, 400.95, 925.25, 250.2, 0, 120.0], [925.25, 250.2, 952.1, 250.2, 0, 120.0], [952.1, 250.2, 952.1, 241.2, 0, 120.0], [824.1, 241.2, 824.1, 250.2, 0, 120.0], [824.1, 250.2, 840.75, 250.2, 0, 120.0], [840.75, 250.2, 840.75, 400.95, 0, 120.0], [840.75, 400.95, 835.5, 400.95, 0, 120.0], [835.5, 400.95, 835.5, 405.45, 0, 120.0], [835.5, 405.45, 840.75, 405.45, 0, 120.0], [840.75, 405.45, 847.25, 405.45, 0, 120.0], [847.25, 405.45, 885.5, 405.45, 0, 120.0], [885.5, 405.45, 885.5, 400.95, 0, 120.0], [885.5, 400.95, 847.25, 400.95, 0, 120.0], [847.25, 400.95, 847.25, 250.2, 0, 120.0], [847.25, 250.2, 869.0, 250.2, 0, 120.0], [869.0, 250.2, 869.0, 241.2, 0, 120.0], [639.1, 241.2, 639.1, 250.2, 0, 120.0], [639.1, 250.2, 707.75, 250.2, 0, 120.0], [707.75, 250.2, 707.75, 400.95, 0, 120.0], [707.75, 400.95, 707.75, 405.45, 0, 120.0], [707.75, 405.45, 712.25, 405.45, 0, 120.0], [712.25, 405.45, 799.5, 405.45, 0, 120.0], [799.5, 405.45, 799.5, 400.95, 0, 120.0], [799.5, 400.95, 712.25, 400.95, 0, 120.0], [712.25, 400.95, 712.25, 250.2, 0, 120.0], [712.25, 250.2, 728.1, 250.2, 0, 120.0], [728.1, 250.2, 728.1, 241.2, 0, 120.0], [519.1, 250.2, 639.1, 250.2, 96.0, 120.0], [519.1, 250.2, 639.1, 250.2, 0, 30.0], [728.1, 250.2, 824.1, 250.2, 96.0, 120.0], [728.1, 250.2, 824.1, 250.2, 0, 30.0], [869.0, 250.2, 899.0, 250.2, 96.0, 120.0], [869.0, 250.2, 899.0, 250.2, 0, 30.0], [952.1, 250.2, 1052.1, 250.2, 96.0, 120.0], [952.1, 250.2, 1052.1, 250.2, 0, 30.0], [1100.1, 250.2, 1196.1, 250.2, 96.0, 120.0], [1100.1, 250.2, 1196.1, 250.2, 0, 30.0], [380.0, 298.2, 418.0, 298.2, 96.0, 120.0], [424.0, 298.2, 438.0, 298.2, 96.0, 120.0], [453.1, 255.0, 453.1, 279.0, 96.0, 120.0], [453.1, 255.0, 453.1, 279.0, 0, 30.0], [397.0, 612.2, 517.0, 612.2, 96.0, 120.0], [397.0, 612.2, 517.0, 612.2, 0, 30.0], [592.0, 612.2, 652.0, 612.2, 96.0, 120.0], [592.0, 612.2, 652.0, 612.2, 0, 30.0], [886.25, 612.2, 916.25, 612.2, 96.0, 120.0], [886.25, 612.2, 916.25, 612.2, 0, 30.0], [972.5, 612.2, 996.5, 612.2, 96.0, 120.0], [972.5, 612.2, 996.5, 612.2, 0, 30.0], [1083.6, 612.2, 1191.6, 612.2, 96.0, 120.0], [1083.6, 612.2, 1191.6, 612.2, 0, 30.0], [365.1, 510.8, 365.1, 594.8, 96.0, 120.0], [1211.0, 414.7, 1211.0, 450.7, 96.0, 120.0], [799.5, 400.95, 835.5, 400.95, 96.0, 120.0], [799.5, 405.45, 835.5, 405.45, 96.0, 120.0], [885.5, 400.95, 915.5, 400.95, 96.0, 120.0], [885.5, 405.45, 915.5, 405.45, 96.0, 120.0], [984.0, 400.95, 1020.0, 400.95, 96.0, 120.0], [984.0, 405.45, 1020.0, 405.45, 96.0, 120.0], [1090.0, 400.95, 1126.0, 400.95, 96.0, 120.0], [1090.0, 405.45, 1126.0, 405.45, 96.0, 120.0], [682.5, 456.95, 712.5, 456.95, 96.0, 120.0], [682.5, 461.45, 712.5, 461.45, 96.0, 120.0], [760.0, 456.95, 790.0, 456.95, 96.0, 120.0], [760.0, 461.45, 790.0, 461.45, 96.0, 120.0], [838.0, 456.95, 866.0, 456.95, 96.0, 120.0], [838.0, 461.45, 866.0, 461.45, 96.0, 120.0], [1070.0, 456.95, 1106.0, 456.95, 96.0, 120.0], [1070.0, 461.45, 1106.0, 461.45, 96.0, 120.0], [747.75, 579.2, 747.75, 609.2, 96.0, 120.0], [752.25, 579.2, 752.25, 609.2, 96.0, 120.0], [993.5, 535.7, 1023.5, 535.7, 96.0, 120.0], [993.5, 540.2, 1023.5, 540.2, 96.0, 120.0], [1059.75, 463.0, 1059.75, 491.7, 96.0, 120.0], [1064.25, 463.0, 1064.25, 491.7, 96.0, 120.0]], "glass": [[519.1, 245.7, 639.1, 245.7, 30.0, 96.0], [728.1, 245.7, 824.1, 245.7, 30.0, 96.0], [869.0, 245.7, 899.0, 245.7, 30.0, 96.0], [952.1, 245.7, 1052.1, 245.7, 30.0, 96.0], [1100.1, 245.7, 1196.1, 245.7, 30.0, 96.0], [424.0, 293.7, 438.0, 293.7, 0.0, 96.0], [448.6, 255.0, 448.6, 279.0, 30.0, 96.0], [397.0, 616.7, 517.0, 616.7, 30.0, 96.0], [592.0, 616.7, 652.0, 616.7, 30.0, 96.0], [886.25, 616.7, 916.25, 616.7, 30.0, 96.0], [972.5, 616.7, 996.5, 616.7, 30.0, 96.0], [1083.6, 616.7, 1191.6, 616.7, 30.0, 96.0], [360.6, 510.8, 360.6, 594.8, 0, 96.0]], "fence": [[685.0, 625.2, 739.0, 625.2, 0, 30], [739.0, 625.2, 739.0, 657.2, 0, 30], [739.0, 657.2, 685.0, 657.2, 0, 30], [685.0, 657.2, 685.0, 625.2, 0, 30], [0.0, 484.3, 160.0, 484.3, 0, 72.0], [208.0, 484.3, 356.1, 484.3, 0, 72.0], [0.0, 386.0, 60.0, 386.0, 0, 72.0], [60.0, 386.0, 60.0, 258.0, 0, 72.0], [1220.0, 241.2, 1240.0, 241.2, 0, 72.0], [1288.0, 241.2, 1356.0, 241.2, 0, 72.0]]}, "boxes": {"roof": [[134.1, 235.2, 356.1, 487.3, 108, 112]], "post": [[356.1, 241.2, 362.1, 247.2, 0, 120.0], [474.0, 155.5, 492.0, 156.0, 10, 16], [140.1, 241.2, 146.1, 247.2, 0, 108], [140.1, 475.3, 146.1, 481.3, 0, 108]], "concrete": [[392.1, 156.0, 504.0, 164.0, 0, 24.0], [496.0, 164.0, 504.0, 241.2, 0, 24.0]], "fixture": [[840.0, 499.95000000000005, 858.0, 527.95, 0, 16], [823.25, 468.0, 835.25, 486.0, 0, 36], [788.25, 597.2, 802.25, 612.2, 0, 36], [804.25, 582.2, 831.25, 612.2, 0, 38], [831.25, 582.2, 858.25, 612.2, 0, 38], [752.25, 495.0, 756.25, 515.0, 0, 36], [546.9, 461.45, 598.0, 612.2, 0, 36], [574.0, 564.2, 598.0, 588.2, 0, 36], [574.0, 540.2, 598.0, 564.2, 0, 36], [546.9, 597.2, 570.9, 612.2, 0, 36], [598.0, 588.2, 647.75, 612.2, 0, 36], [647.75, 497.45, 671.75, 588.2, 0, 36], [647.75, 520.0, 671.75, 550.0, 0, 36], [641.75, 461.45, 671.75, 497.45, 0, 70], [607.0, 592.2, 637.0, 608.2, 0, 36], [847.25, 250.2, 919.25, 282.2, 0, 20], [851.25, 254.2, 915.25, 278.2, 0, 20], [847.25, 284.2, 875.25, 314.2, 0, 16], [847.25, 323.2, 868.25, 371.2, 0, 34], [676.25, 557.45, 698.25, 579.45, 0, 72], [877.25, 540.2, 925.25, 612.2, 0, 20], [881.25, 544.2, 921.25, 608.2, 0, 20], [969.5, 584.2, 999.5, 612.2, 0, 16], [999.75, 590.2, 1059.75, 612.2, 0, 34], [691.0, 631.2, 733.0, 651.2, 0, 36]], "furniture": [[804.25, 582.2, 858.25, 612.2, 0, 38], [798.75, 465.45, 816.75, 527.95, 0, 30], [436.0, 481.0, 476.0, 565.0, 0, 30], [453.1, 300.0, 456.1, 360.0, 0, 44], [636.5, 305.0, 651.5, 396.0, 0, 30], [533.0, 323.0, 579.0, 369.0, 0, 18], [365.1, 333.0, 383.1, 366.0, 0, 18], [712.25, 283.575, 715.25, 343.575, 0, 44], [715.25, 283.575, 795.25, 343.575, 0, 24], [717.25, 286.575, 731.25, 311.575, 0, 30], [717.25, 315.575, 731.25, 340.575, 0, 30], [712.25, 265.575, 728.25, 283.575, 0, 24], [712.25, 343.575, 728.25, 361.575, 0, 24], [925.25, 283.575, 928.25, 343.575, 0, 44], [928.25, 283.575, 1008.25, 343.575, 0, 24], [930.25, 286.575, 944.25, 311.575, 0, 30], [930.25, 315.575, 944.25, 340.575, 0, 30], [925.25, 265.575, 941.25, 283.575, 0, 24], [925.25, 343.575, 941.25, 361.575, 0, 24], [1208.0, 283.575, 1211.0, 343.575, 0, 44], [1128.0, 283.575, 1208.0, 343.575, 0, 24], [1192.0, 286.575, 1206.0, 311.575, 0, 30], [1192.0, 315.575, 1206.0, 340.575, 0, 30], [1195.0, 265.575, 1211.0, 283.575, 0, 24], [1195.0, 343.575, 1211.0, 361.575, 0, 24], [1208.0, 498.82500000000005, 1211.0, 574.825, 0, 44], [1128.0, 498.82500000000005, 1208.0, 574.825, 0, 24], [1192.0, 501.82500000000005, 1206.0, 534.825, 0, 30], [1192.0, 538.825, 1206.0, 571.825, 0, 30], [1195.0, 480.82500000000005, 1211.0, 498.82500000000005, 0, 24], [1195.0, 574.825, 1211.0, 592.825, 0, 24], [264.1, 614.0, 304.1, 686.0, 0, 30]], "closet": [[818.75, 534.45, 870.75, 546.45, 0, 84], [877.25, 461.45, 1031.0, 485.45, 0, 84], [877.25, 511.70000000000005, 989.0, 535.7, 0, 84], [877.25, 485.45, 891.25, 511.70000000000005, 0, 84], [365.1, 300.0, 383.1, 333.0, 0, 96], [712.25, 376.95, 794.0, 400.95, 0, 96], [925.25, 376.95, 974.0, 400.95, 0, 96], [1030.1, 376.95, 1079.75, 400.95, 0, 96], [1130.0, 376.95, 1211.0, 400.95, 0, 96], [847.25, 376.95, 877.25, 400.95, 0, 84], [676.25, 495.0, 692.25, 552.95, 0, 60.0], [731.75, 461.45, 747.75, 552.95, 0, 60.0], [692.25, 536.95, 731.75, 552.95, 0, 60.0]], "chrome": [[847.25, 265.59999999999997, 856.25, 266.8, 81.5, 82.7], [945.65, 540.2, 946.85, 549.2, 81.5, 82.7], [945.65, 603.2, 946.85, 612.2, 81.5, 82.7]]}, "cyls": {"furniture": [[538.9, 476.7, 7.5, 0, 30.0], [538.9, 512.9, 7.5, 0, 30.0], [538.9, 544.5, 7.5, 0, 30.0], [428.0, 495.0, 7.0, 0, 18.0], [484.0, 495.0, 7.0, 0, 18.0], [428.0, 523.0, 7.0, 0, 18.0], [484.0, 523.0, 7.0, 0, 18.0], [428.0, 551.0, 7.0, 0, 18.0], [484.0, 551.0, 7.0, 0, 18.0], [456.0, 472.0, 7.0, 0, 18.0], [456.0, 574.0, 7.0, 0, 18.0]], "fixture": [[689.25, 599.2, 12.0, 0, 62.0], [712.25, 602.2, 9.0, 0, 40.0], [727.25, 605.2, 5.0, 0, 48.0]], "chrome": [[856.25, 266.2, 4.0, 80.0, 81.5], [946.25, 549.2, 4.0, 80.0, 81.5], [946.25, 603.2, 4.0, 80.0, 81.5]]}, "polys": {"ground": [[[[0, -160.0], [1356.0, -160.0], [1356.0, 777.25], [0, 777.25]], -1.0, 0.0]], "slab": [[[[356.1, 289.2], [444.1, 289.2], [444.1, 241.2], [1220.0, 241.2], [1220.0, 621.2], [356.1, 621.2]], 0.0, 4.0]], "concrete": [[[[140.1, 241.2], [356.1, 241.2], [356.1, 481.3], [140.1, 481.3]], 0.0, 2.0], [[[150.0, -160.0], [290.0, -160.0], [290.0, 0.0], [290.45902777777775, 27.64722222222222], [291.8361111111111, 53.92222222222222], [294.13125, 78.825], [297.3444444444445, 102.35555555555555], [301.4756944444444, 124.51388888888887], [306.525, 145.3], [312.49236111111117, 164.7138888888889], [319.3777777777778, 182.75555555555553], [327.18125, 199.42499999999998], [335.9027777777778, 214.72222222222223], [345.5423611111111, 228.64722222222218], [356.1, 241.2], [140.1, 241.2], [150.0, 0.0]], 0.0, 1.0], [[[356.1, 217.2], [444.1, 217.2], [444.1, 289.2], [356.1, 289.2]], 0.0, 3.0], [[[6.0, 262.0], [54.0, 262.0], [54.0, 382.0], [6.0, 382.0]], 0.0, 3.0]], "pavers": [[[[356.1, 156.0], [504.0, 156.0], [504.0, 241.2], [356.1, 241.2]], 0.0, 2.0], [[[6.0, 485.3], [356.1, 485.3], [356.1, 545.3], [6.0, 545.3]], 0.0, 2.0], [[[212.10000000000002, 485.3], [356.1, 485.3], [356.1, 735.25], [212.10000000000002, 735.25]], 0.0, 2.0]], "furniture": [[[[505.0, 267.0], [635.0, 267.0], [635.0, 396.0], [597.0, 396.0], [597.0, 305.0], [505.0, 305.0]], 0.0, 30.0]], "lawn": [[[[18.0, 557.3], [200.10000000000002, 557.3], [200.10000000000002, 723.25], [18.0, 723.25]], 0.0, 1.0]], "planter": [[[[6.0, 735.25], [356.1, 735.25], [356.1, 771.25], [6.0, 771.25]], 0.0, 24.0]], "ceiling": [[[[356.1, 289.2], [444.1, 289.2], [444.1, 241.2], [1220.0, 241.2], [1220.0, 621.2], [356.1, 621.2]], 120.0, 121.0]]}, "tris": {}, "mat": {}, "labels": [["FOYER", 418.0, 376.2], ["LOUNGE", 668.0, 305.6], ["DINING", 456.0, 597.6], ["KITCHEN", 622.0, 549.9], ["BEDROOM 2", 776.5, 277.6], ["BEDROOM 3", 1002.5, 277.6], ["BEDROOM 4", 1147.625, 277.6], ["PANTRY", 712.0, 511.05000000000007], ["MECH", 712.0, 578.5], ["PWD", 842.0, 498.8], ["LAUNDRY", 805.0, 566.15], ["WIC", 1000.0, 502.07500000000005], ["PRIMARY", 1097.625, 542.4250000000001], ["LOBBY", 960.0, 431.2], ["PORCH", 400.1, 265.2], ["C. BATH", 896.5, 340.34999999999997], ["PRIMARY BATH", 1013.5, 579.8], ["CARPORT", 248.10000000000002, 361.25, 11.0]], "center": [788.05, 431.20000000000005], "entry": [396.1, 311.2], "roof": [[332.1, 217.2], [1244.0, 217.2], [1244.0, 645.2], [332.1, 645.2]], "roof_z": 134.0};
 const IN = 1/12;                                   // inches -> feet
 const scene = new THREE.Scene();
 scene.background = new THREE.Color(0xdfe7ee);

diff --git a/scripts/experiment_laundry.py b/scripts/experiment_laundry.py
@@ -4,11 +4,10 @@
 # ///
 """Experiment: laundry with the machines on the back wall and the sink on the primary-bath wall.
 
-  back wall  front-load washer and dryer side by side with a folding counter over them and
-             upper cabinets above. Starts 3' off the pantry wall so the mechanical closet's
-             bifold has open floor in front of it. No window: the back wall is solid.
-  sink       a small, shallow utility sink in the back corner on the wall shared with the
-             primary bath (its supply and drain share that wet wall).
+  back wall  a small, shallow utility sink just past 3' of open floor in front of the
+             mechanical closet's bifold, then a front-load washer and dryer side by side with a
+             folding counter over them and upper cabinets above. No window: the back wall is
+             solid.
   side wall  the powder-room wall becomes full-height storage (brooms, vacuum, ironing
              board, supplies), kept shallow so the walk to the machines and the panel stays
              open.
@@ -60,11 +59,12 @@ def utility(sh):
     lp = S.face("laundry|powder", -1)
     back = S.S_IN
     x = l0 + MECH_CLEAR                                   # stand-in space in front of the mech closet's bifold
+    S.vanity(sh, x, back - SINK_D, x + SINK_W, back, "SINK", rot=90)    # just past the mech closet's clear floor
+    x = w0 = x + SINK_W + 2
     for lbl in ("WASHER", "DRYER"):
         sh.rect(x, back - 30, x + 27, back, EQ); sh.text(lbl, x + 13.5, back - 15, 3.0); x += 27
-    sh.rect(l0 + MECH_CLEAR, back - 30, x, back, FU)      # folding counter over the machines
-    sh.text("FOLDING COUNTER OVER  /  UPPERS ABOVE", (l0 + MECH_CLEAR + x) / 2, back - 36, 2.4)
-    S.vanity(sh, l1 - SINK_D, back - SINK_W, l1, back, "SINK", rot=90)   # back corner, on the primary-bath wall
+    sh.rect(w0, back - 30, x, back, FU)                   # folding counter over the machines
+    sh.text("FOLDING COUNTER OVER  /  UPPERS ABOVE", (w0 + x) / 2, back - 36, 2.4)
     t0, t1 = S.face("south hall wall", +1) + 4, S.face("powder|alcove", -1)
     sh.rect(lp - TALL_D, t0, lp, t1, FU)
     sh.text("TALL STORAGE", lp - TALL_D / 2, (t0 + t1) / 2, 2.8, rot=90)
